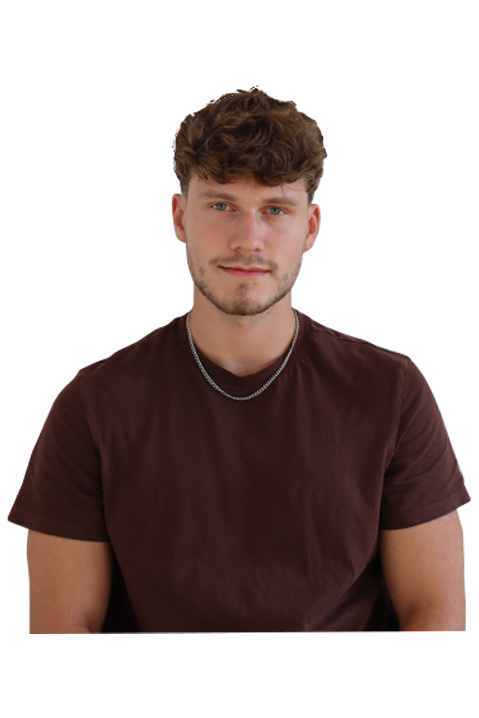
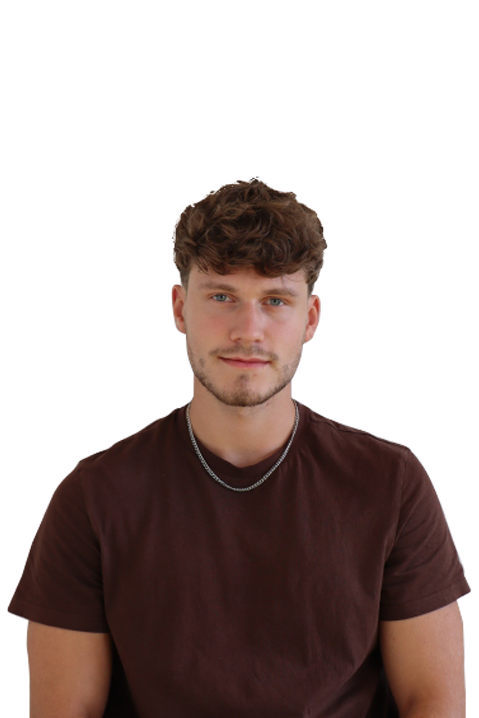
Visitekaartje
- Ik heb de vorm van het kaartje aangepast.
- ik heb extra elementen toegevoegd.
- ik heb elementen veranderd kwa vorm

diff --git a/styles/style.css b/styles/style.css
@@ -12,7 +12,7 @@ body {
   align-items: center;
   height: 100vh;
   font-family: open sans;
-  color: #ffffff;
+  color: #f5eebc;
 }
 
 article {
@@ -24,7 +24,7 @@ article {
   width: 50vw;
   max-width: 25em;
   min-width: 20em;
-  border-radius: 1rem;
+  border-radius: 5rem;
   background: rgb(20, 58, 22);
   background: rgb(20, 58, 22);
   box-shadow: 0 0 20px 20px rgba(0,0,0,.1);
@@ -40,36 +40,37 @@ header {
 }
 
 h1 {
-  margin: 2rem 0 1rem;
-  color: rgb(255, 255, 255);
+  margin: 5rem 0 1.5rem;
+  color: rgb(245, 238, 188 );
 }
 
 button {
   position: absolute;
-  right: 1rem;
+  right: 11,5rem;
   top: 1rem;
   width: 2.5rem;
   height: 2.5rem;
   padding: .25rem;
   border: none;
-  border-radius: 50%;
+  border-radius: 100%;
   background: rgb(245, 238, 188);
-  transform: scale(.8);
+  transform: scale(1.0);
   transition: .25s;
 }
 button:focus {
-  outline: none;
+  outline: solid#42762a;
   background: #f5eebc;
 }
 button:focus svg {
   stroke: rgb(20, 58, 22);
+  
 }
 
 svg {
   position: absolute;
   top: calc(1.25rem - 12px);
   left: calc(1.25rem - 12px);
-  stroke: #4e54c8;
+  stroke: #062b04;
   transition-delay: .25s;
 }
 button svg:nth-of-type(2) {
@@ -79,11 +80,11 @@ button svg:nth-of-type(2) {
 
 img {
   position: relative;
-  top: 2rem;
+  top: 1rem;
   width: 10em;
   height: auto;
-  border: 10px solid #42762a;
-  border-radius: 10em;
+  border: 7px solid #42762a;
+  border-radius: 3em;
   box-shadow: 0 0 2px 2px rgba(0,0,0,.2);
   transition: .25s .15s;
 }
@@ -139,7 +140,7 @@ article > p {
   width: 100%;
   margin-top: 0;
   padding: 3rem 2rem;
-  border-radius: 0 0 1rem 1rem;
+  border-radius: 0 0 5rem 5rem;
   text-align: center;
   background: rgba(20, 58, 22);
 }
@@ -170,4 +171,6 @@ body.expand dd {
 
 body.expand img {
   width: 15em;
+  border: 15px solid #42762a;
+  
 }

diff --git a/index.html b/index.html
@@ -14,7 +14,7 @@
         
         <h1>Kyan Gijtenbeek</h1>
         
-        <p><em>Frontend Designer</em></p>
+        
         
         <button>
           <svg width="24" height="24" viewBox="0 0 24 24" stroke-width="" stroke="#2c3e50" fill="none" stroke-linecap="round" stroke-linejoin="round">
@@ -38,18 +38,18 @@
   
       <img src="Mugshot jaar 1.png" alt="" width="800" height="800">
 
-      <dl>
-        <dt>HTML</dt>
-        <dd>123</dd>
+    
         
-        <dt>CSS</dt>
-        <dd>ABC</dd>
         
-        <dt>JavaScript</dt>
-        <dd>CDE</dd>
-      </dl> 
+        
+        
+        
+        
+        
+        
+   
   
-      <p>Ik ben Kyan Gijtenbeek en Ik ben 21 jaar oud, ik ben geboren in Amersfoort. Ik heb meerdere hobby's, zoals ontwerpen en fitnessen<br> </p>
+      <p>Ik ben Kyan Gijtenbeek en Ik ben 21 jaar oud, ik ben geboren in Amersfoort. Ik heb meerdere hobby's, zoals ontwerpen en fitnessen. Ik heb hiervoor Grafisch vormgever gestudeerd op MBO Niveau 4.<br> </p>
       
     </article>
 
